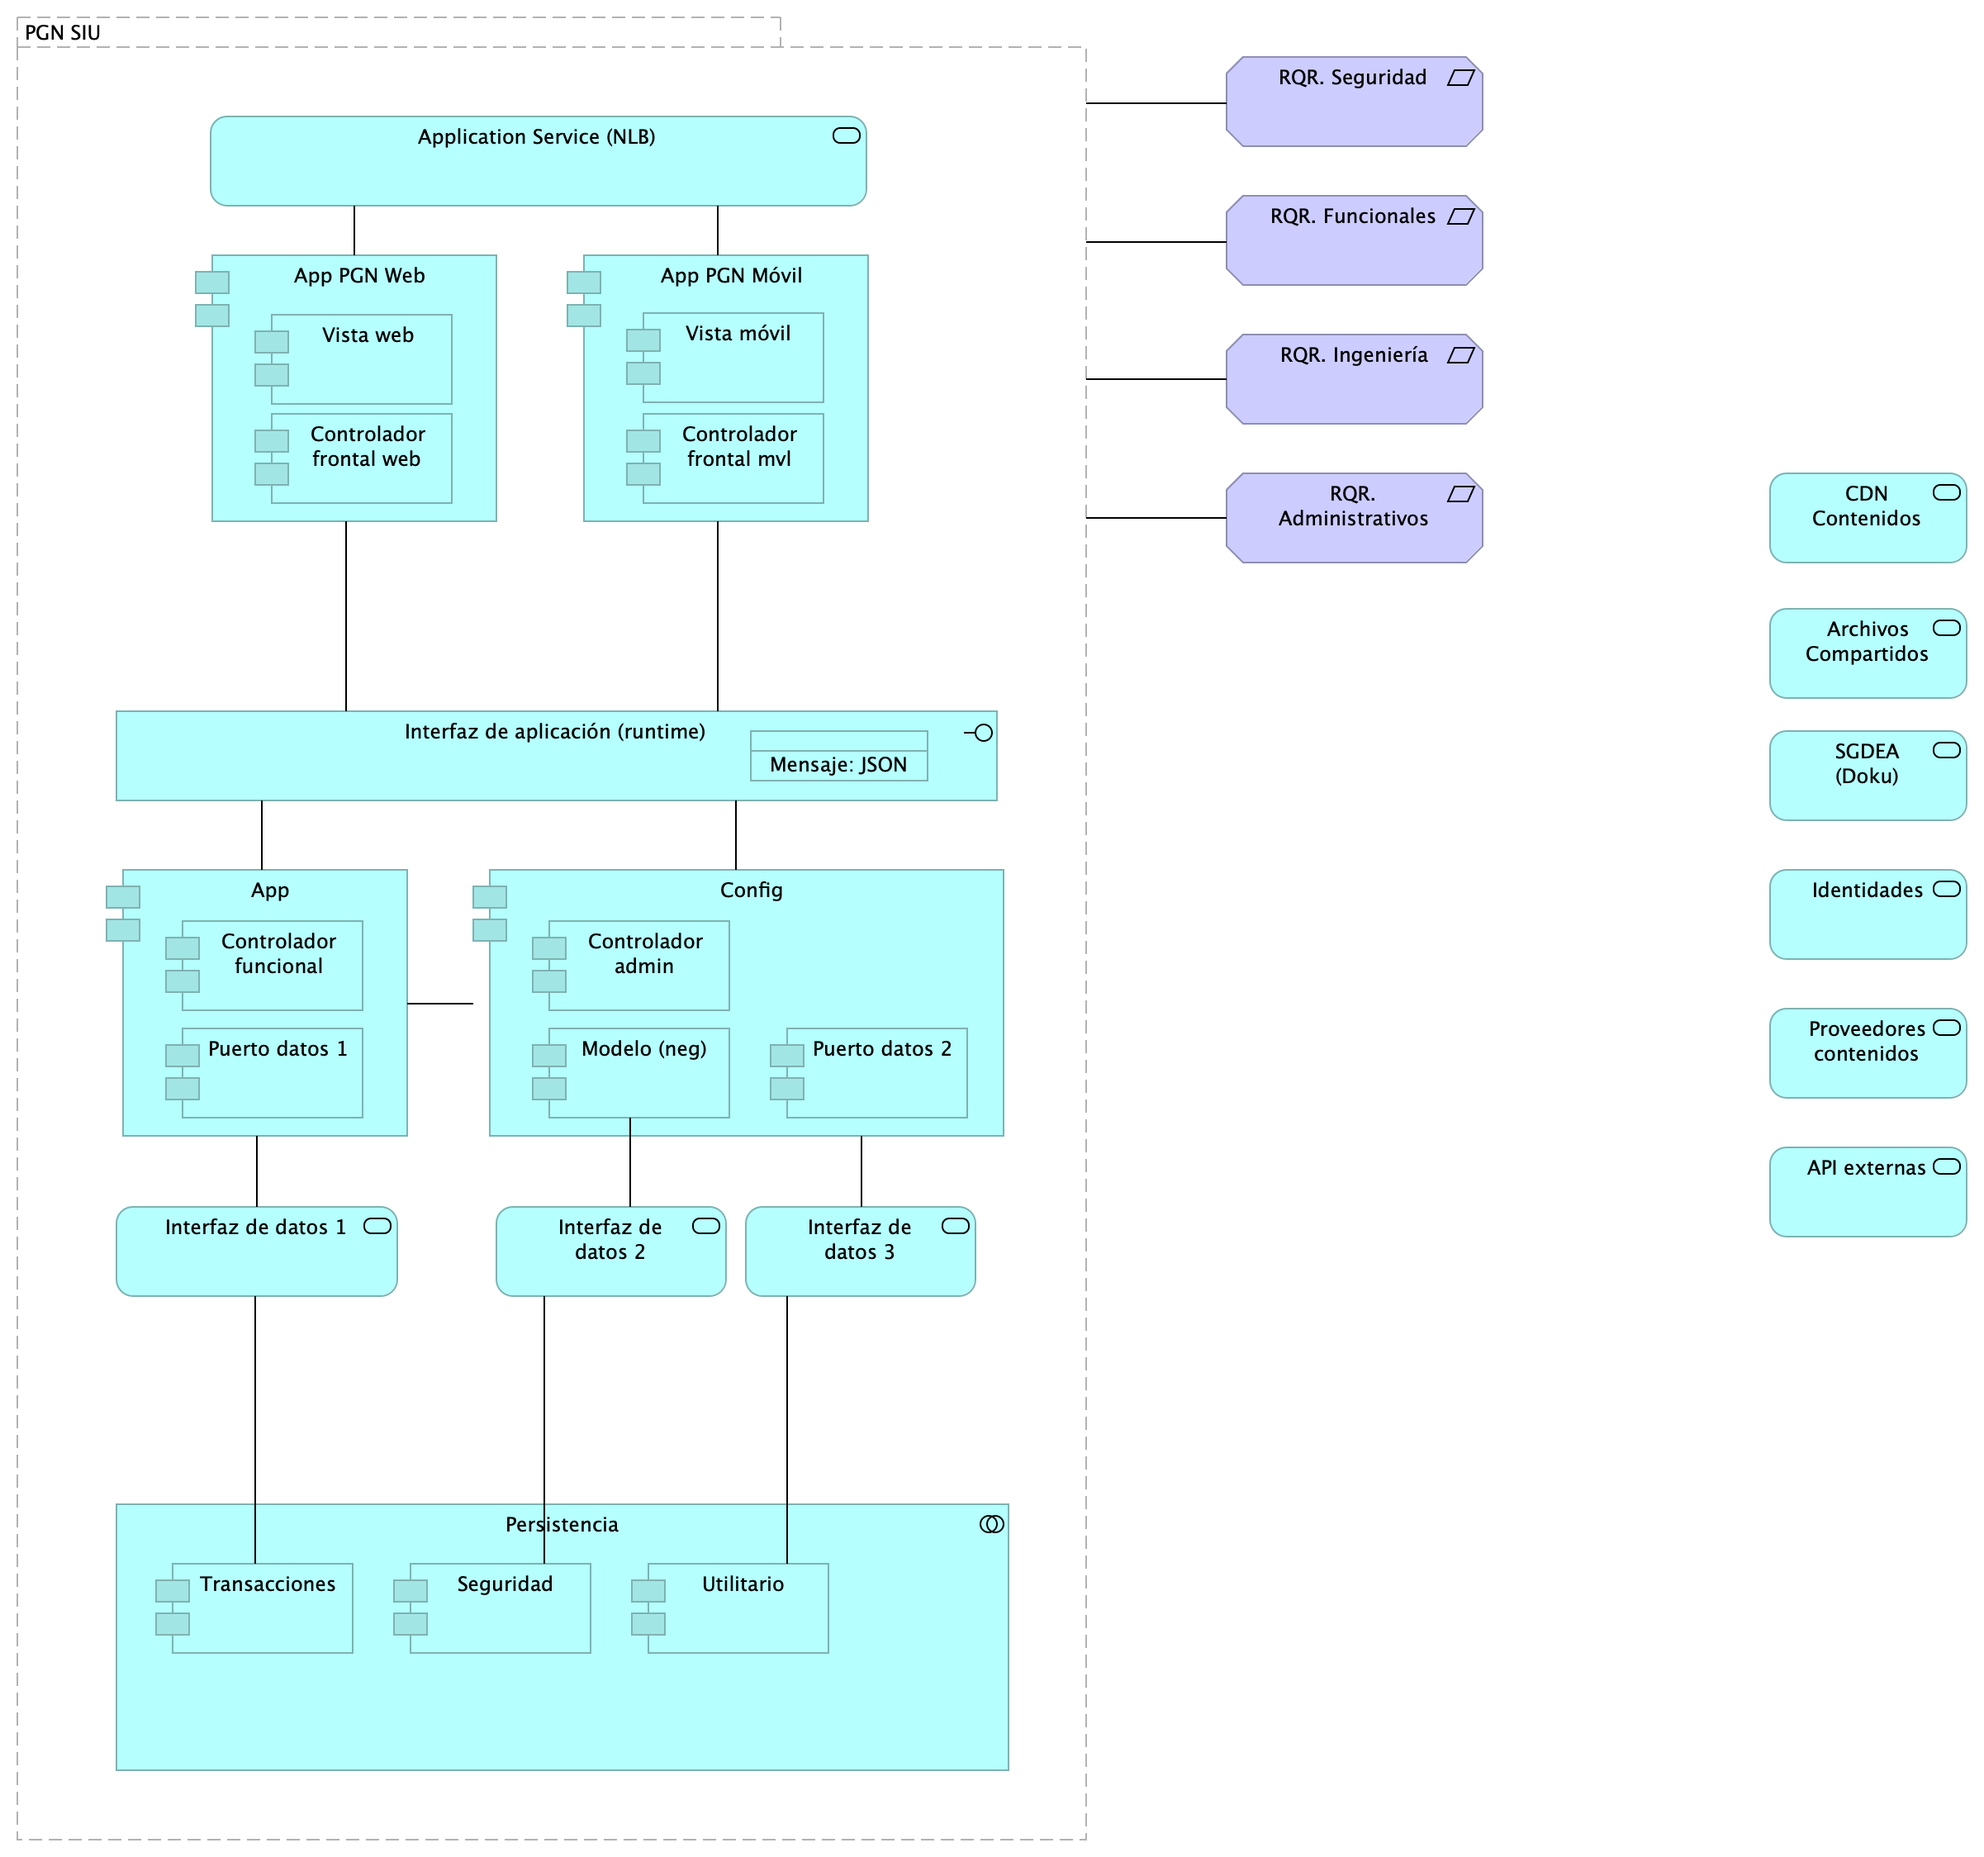
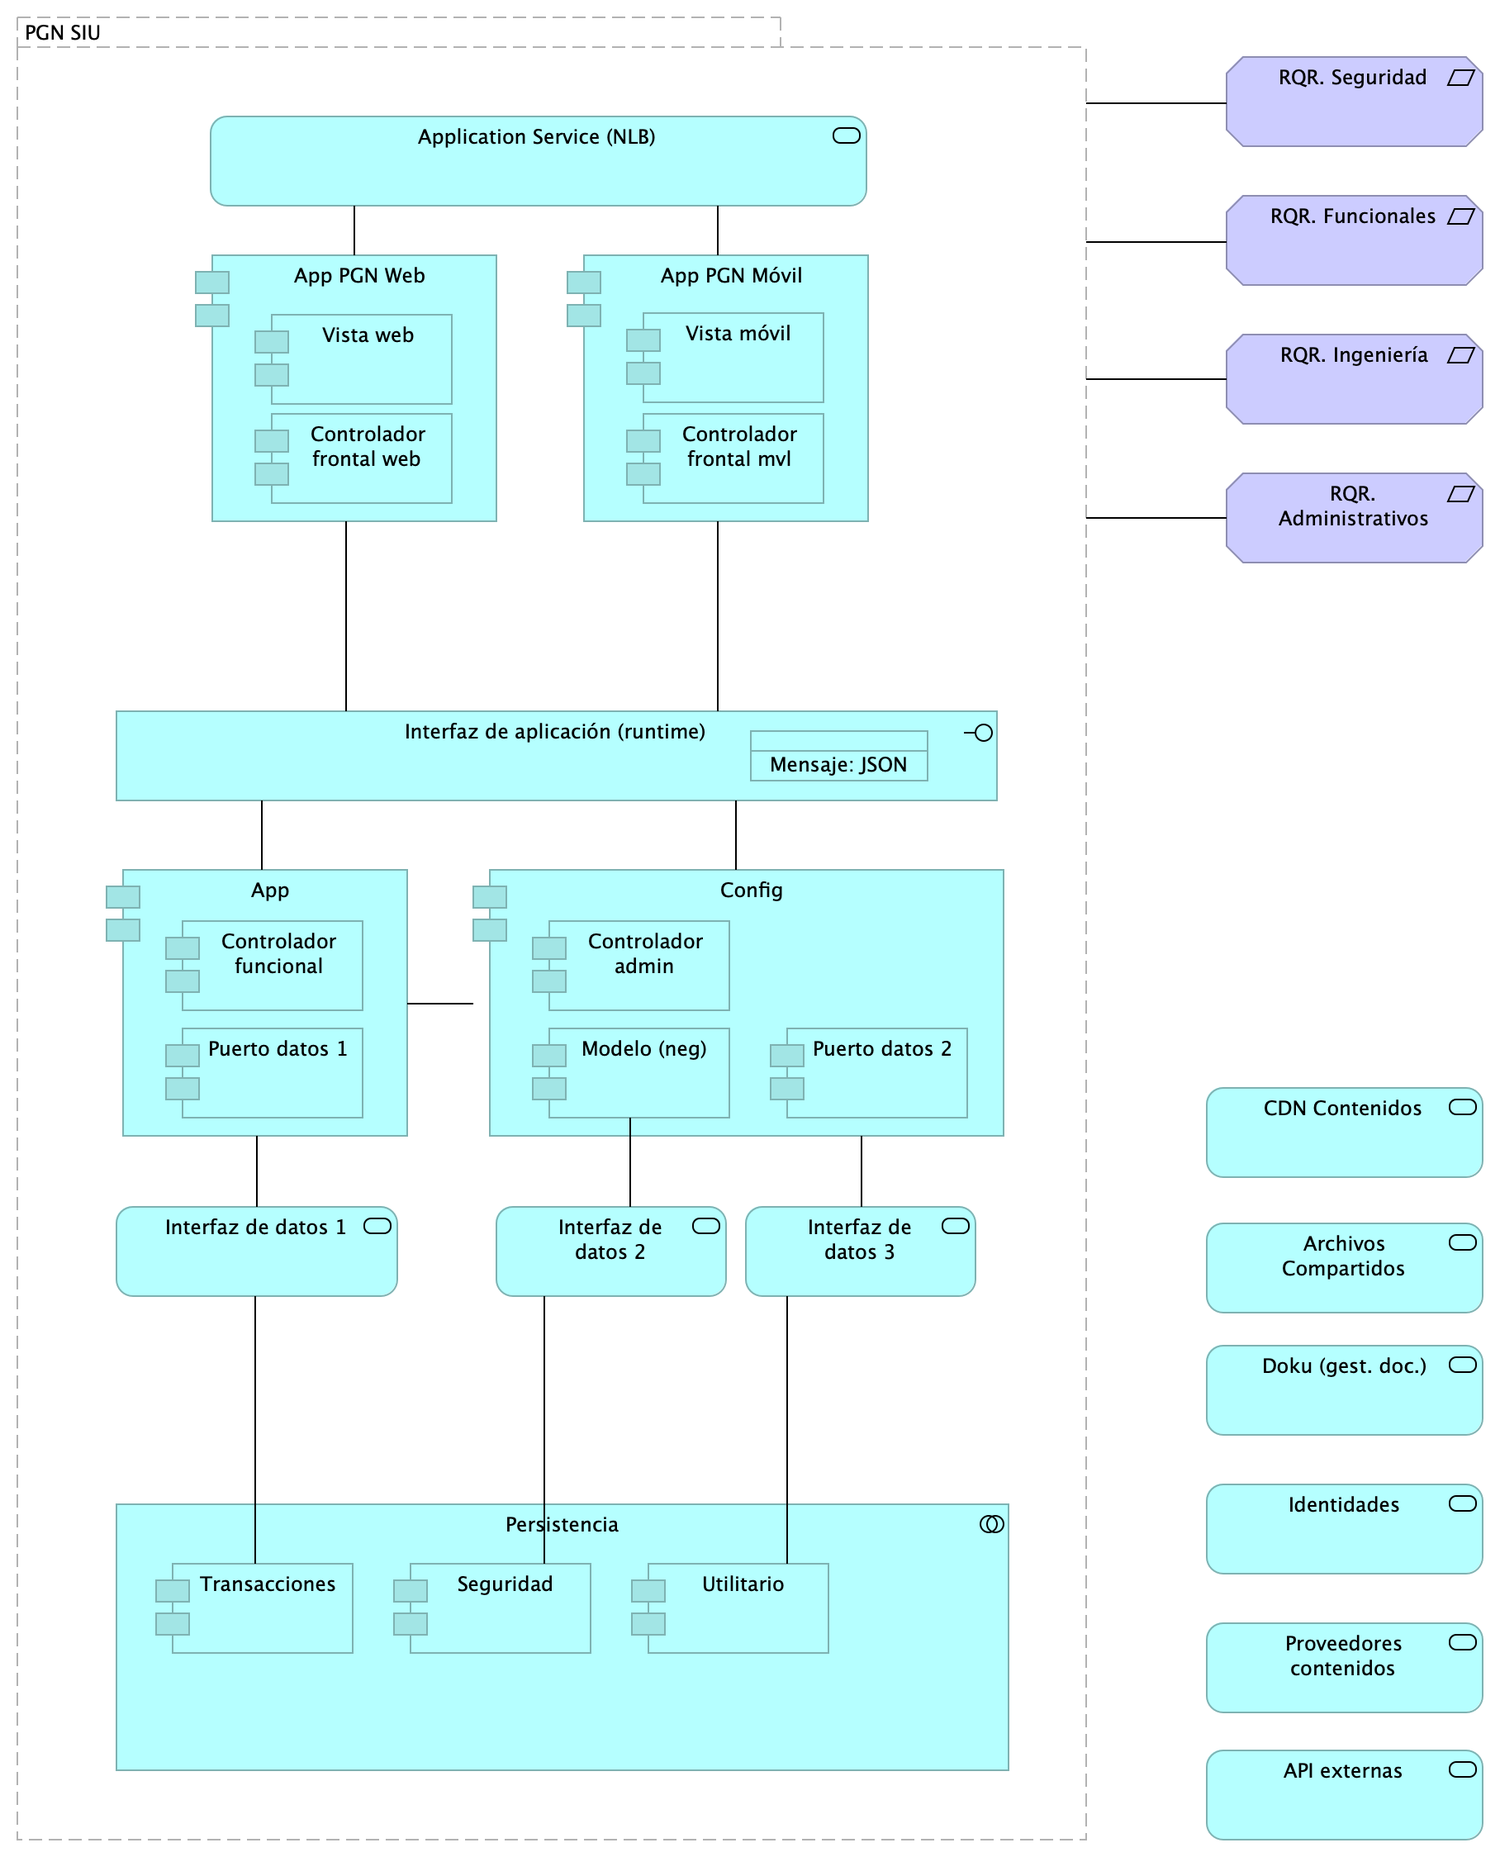
upd

diff --git a/content/02n.a1.doc.md b/content/02n.a1.doc.md
@@ -10,6 +10,7 @@
 	* [Migracion.1.SIU modulos](#migracion.1.siu-modulos)
 
 <div style="page-break-before: always;"></div>
+\newpage
  ___ 
 
 # Línea Base PGN SIU
@@ -58,7 +59,7 @@ Con una arquitectura orientada a servicios SUI recopila:
 [](#lineabase.1.siu-componente)
 ![Diagram: Lineabase.1.SIU componente][Lineabase.1.SIU componente]
 
-[Lineabase.1.SIU componente]: images/Lineabase.1.SIU%20componente.png
+[Lineabase.1.SIU componente]: images/Lineabase.0.SIU%20applicaciónLineabase.1.SIU%20componente.png
 
 Distribución de los servicios y paquetes que integran la aplicación de SUI. 
 
@@ -67,6 +68,13 @@ Cuatro paquetes con tecnologías respectivas
 1. API Transaccional (Node Js)
 1. API Config (C#)
 1. Persistencia (SQL)
+
+Asuntos de la Migración:
+* Estrategia CMS central
+* Motor de búsqueda
+* Estatego como BI
+* Conciliación y Doku
+* Gestión de sesiones / caducidad
 
 
 
@@ -95,12 +103,12 @@ Cuatro paquetes con tecnologías respectivas
 |**Application Service (NLB)**|application-service||*plataforma:* angular 11<br>|
 |**Archivos Compartidos**|application-service|||
 |**CDN Contenidos**|application-service|||
+|**Doku (gest. doc.)**|application-service|||
 |**Identidades**|application-service|||
 |**Interfaz de datos 1**|application-service|||
 |**Interfaz de datos 2**|application-service|||
 |**Interfaz de datos 3**|application-service|||
 |**Proveedores contenidos**|application-service|||
-|**SGDEA (Doku)**|application-service|||
 |**Mensaje: JSON**|data-object|||
 |**PGN SIU**|grouping|||
 |**RQR. Administrativos**|requirement|||
@@ -112,7 +120,7 @@ Cuatro paquetes con tecnologías respectivas
 [](#lineabase.1a.siu-componente)
 ![Diagram: Lineabase.1a.SIU componente][Lineabase.1a.SIU componente]
 
-[Lineabase.1a.SIU componente]: images/Lineabase.1a.SIU%20componente.png
+[Lineabase.1a.SIU componente]: images/Lineabase.0.SIU%20applicaciónLineabase.1.SIU%20componenteLineabase.1a.SIU%20componente.png
 
 Dependencias entre los servicios que integran la aplicación de SUI. 
 
@@ -139,10 +147,16 @@ Dependencias entre los servicios que integran la aplicación de SUI.
 |**Vista móvil**|application-component||*plataforma:* js<br>|
 |**Vista web**|application-component||*plataforma:* html<br>|
 |**Interfaz de aplicación (runtime)**|application-interface||*plataforma:* angular 11<br>|
+|**API externas**|application-service|||
 |**Application Service (NLB)**|application-service||*plataforma:* angular 11<br>|
+|**Archivos Compartidos**|application-service|||
+|**CDN Contenidos**|application-service|||
+|**Doku (gest. doc.)**|application-service|||
+|**Identidades**|application-service|||
 |**Interfaz de datos 1**|application-service|||
 |**Interfaz de datos 2**|application-service|||
 |**Interfaz de datos 3**|application-service|||
+|**Proveedores contenidos**|application-service|||
 |**Mensaje: JSON**|data-object|||
 |**Grouping**|grouping|||
 |**PGN SIU**|grouping|||
@@ -156,7 +170,7 @@ Dependencias entre los servicios que integran la aplicación de SUI.
 [](#linebase.2.portal)
 ![Diagram: Linebase.2.Portal][Linebase.2.Portal]
 
-[Linebase.2.Portal]: images/Linebase.2.Portal.png
+[Linebase.2.Portal]: images/Lineabase.0.SIU%20applicaciónLineabase.1.SIU%20componenteLineabase.1a.SIU%20componenteLinebase.2.Portal.png
 
 El portal es el conjunto de los elementos físicos y lógicos necesarios para la implementación de la granja de servidores de SharePoint Server 2019 para el portal de la PROCURADURIA.
 
@@ -174,6 +188,7 @@ El portal es el conjunto de los elementos físicos y lógicos necesarios para la
 |**Servidor web Sharepoint**|application-component|||
 |**Application Interface**|application-interface|||
 <div style="page-break-before: always;"></div>
+\newpage
  ___ 
 
 # Arquitectura Migración PGN SIU
@@ -222,13 +237,13 @@ Cuantro paquetes con tecnologías respectivas
 |**Application Service (NLB)**|application-service||*plataforma:* angular 11<br>|
 |**Archivos Compartidos**|application-service|||
 |**CDN Contenidos**|application-service|||
+|**Doku (gest. doc.)**|application-service|||
 |**Identidades**|application-service|||
 |**Interfaz de datos 1**|application-service|||
 |**Interfaz de datos 2**|application-service|||
 |**Interfaz de datos 3**|application-service|||
 |**Office**|application-service|||
 |**Proveedores contenidos**|application-service|||
-|**SGDEA (Doku)**|application-service|||
 |**Mensaje: JSON**|data-object|||
 |**Administración**|grouping|||
 |**Almacenamiento**|grouping|||
@@ -242,3 +257,5 @@ Cuantro paquetes con tecnologías respectivas
 |**RQR. Misionales**|requirement|||
 |**RQR. Seguridad**|requirement|1. Las soluciones deben dar cumplimiento a las políticas institucionales del sistema de gestión de seguridad de la información establecidas por la entidad que busca garantizar la confidencialidad, integridad y disponibilidad de la información que se genera, procesa, almacena y/o transmite en los sistemas de Información de la Entidad. <br>1. Las soluciones de automatización de procesos a implementar deben permitir la Gestión de Seguridad de Usuarios, grupos de usuarios y asignación de Roles y perfiles de usuarios, permitiendo asociar las acciones disponibles en la solución con respecto a roles de usuario, permitiendo parametrizar las funcionalidades que cada actor puede usar en la solución. <br>1. Un usuario puede estar asociado a uno o más roles, de tal manera que los menús de navegación de la solución se muestran o despliegan dependiendo de las acciones asociadas a cada rol de usuario, permitiendo así que cuando el usuario es autenticado correctamente, la solución verifica los roles que tiene activos para otorgarle únicamente las acciones autorizadas. <br>1. El diseño de la solución debe definir los criterios necesarios para asegurar la trazabilidad y auditoría sobre las acciones de creación, actualización, modificación o borrado de los componentes de información, de tal manera que la solución debe permitirle al administrador de la solución parametrizar las tablas y eventos que pueden auditarse. <br>1. Las soluciones deben tener en cuenta mecanismos que aseguren el registro histórico para poder mantener la trazabilidad de las acciones realizadas por los usuarios, contemplando el registro de auditoría que contiene información de fecha y hora, identificación del registro, tabla afectada, descripción del evento, tipo de evento, usuario que realiza la acción, identificación de sesión y dirección IP del usuario que efectuó la transacción. <br>1. La solución debe proveer una consulta que permita a un usuario con los privilegios asignados, consultar los registros de auditoría, aplicando criterios de filtro (usuario, maquina, rango de fechas y tipo de operación). <br>1. Las soluciones deben integrarse con LDAP – (Lightweight Directory Access Protocol) para los procesos de inicio de sesión y autenticación. La solución debe soportar la integración Nativa con Active Directory de Microsoft. Para usuarios externos el mecanismo de autorización, autenticación y acceso será controlado a través del modelo de seguridad de la solución (no habrá autenticación para usuarios externos). <br>1. Las soluciones deben cumplir con los lineamientos de seguridad relacionados a su utilización a través de redes públicas y privadas, garantizando la confidencialidad e integridad de la información y acceso a ella. <br>1. Debe evidenciar que, a través de pruebas de vulnerabilidad, garantiza la seguridad de la información. Estas pruebas deben suministrar evidencia de que se usaron umbrales de seguridad para establecer niveles mínimos aceptables de calidad de la seguridad y de la privacidad. <br>1. Debe incluir un mecanismo de cifrado de los datos que se transportan entre los diferentes componentes tecnológicos y los datos sensibles de la base de datos que representen un alto nivel de confidencialidad. <br>1. A nivel de la base de datos debe poder definirse reglas de validación de integridad de datos (unicidad, referencial y negocio). <br>1. Debe contemplar el cumplimiento de la normatividad vigente en cuanto a protección de datos personales y debe permitir el manejo de excepciones. <br>1. Para los casos que aplique se debe permitir el manejo de certificados y/o firmas digitales en los documentos que así se definan para efectos de aprobación y digitalización. <br>1. Debe contemplar las prácticas de desarrollo seguro de aplicaciones y/o implementación segura de productos, para su naturaleza Web based. <br>1. Debe funcionar sobre protocolo SSL (certificados internos de la entidad cuando los sistemas de información sean internas y certificados validos públicamente cuando los sistemas de información estén expuestas a internet). <br>1. Debe entregar un procedimiento para el respaldo de la información de acuerdo con las necesidades de la entidad. <br>1. Debe incluir uso de criptografía para transacciones y/o campos sensibles según lo indiquen las normas vigentes y las necesidades específicas del negocio de acuerdo como lo determine la entidad. <br>1. Debe contemplar un modelo de datos que garantice base de datos única para evitar que se pueda presentar duplicidad de información. <br>1. En la información confidencial solo puede ser consultada por los perfiles autorizados e igualmente restringir documentos de consulta según los privilegios o permisos asociados. <br>1. A nivel de la base de datos debe poder definirse reglas de validación de integridad de datos (unicidad, referencial y negocio). <br>1. Debe cerrar las transacciones luego de máximo 10 minutos de inactividad. <br>1. Debe incluir controles de bloqueo de cuenta después de un máximo de 5 intentos erróneos a fin de evitar ataques de fuerza bruta. <br>1. Debe evidenciar el resultado positivo frente apruebas de ethical hacking, análisis de vulnerabilidades, carga, estrés y desempeño antes de la puesta en operación de acuerdo con los lineamientos de la entidad. <br>1. Debe cumplir con todos los lineamientos de desarrollo seguro establecidos en The OWASP Foundation recomendados en la “Guía de desarrollo OWASP” y “OWAS Cheat Sheet”. <br>||
 
+
+``Generated on: Wed Aug 30 2023 15:20:31 GMT-0500 (COT)``

diff --git a/content/01.abstract.md b/content/01.abstract.md
@@ -17,3 +17,5 @@ Descripción de los productos del trabajo de arquitectura de la Fase 2, proyecto
 <br>
 
 <div style="page-break-before: always;"></div>
+\newpage
+
